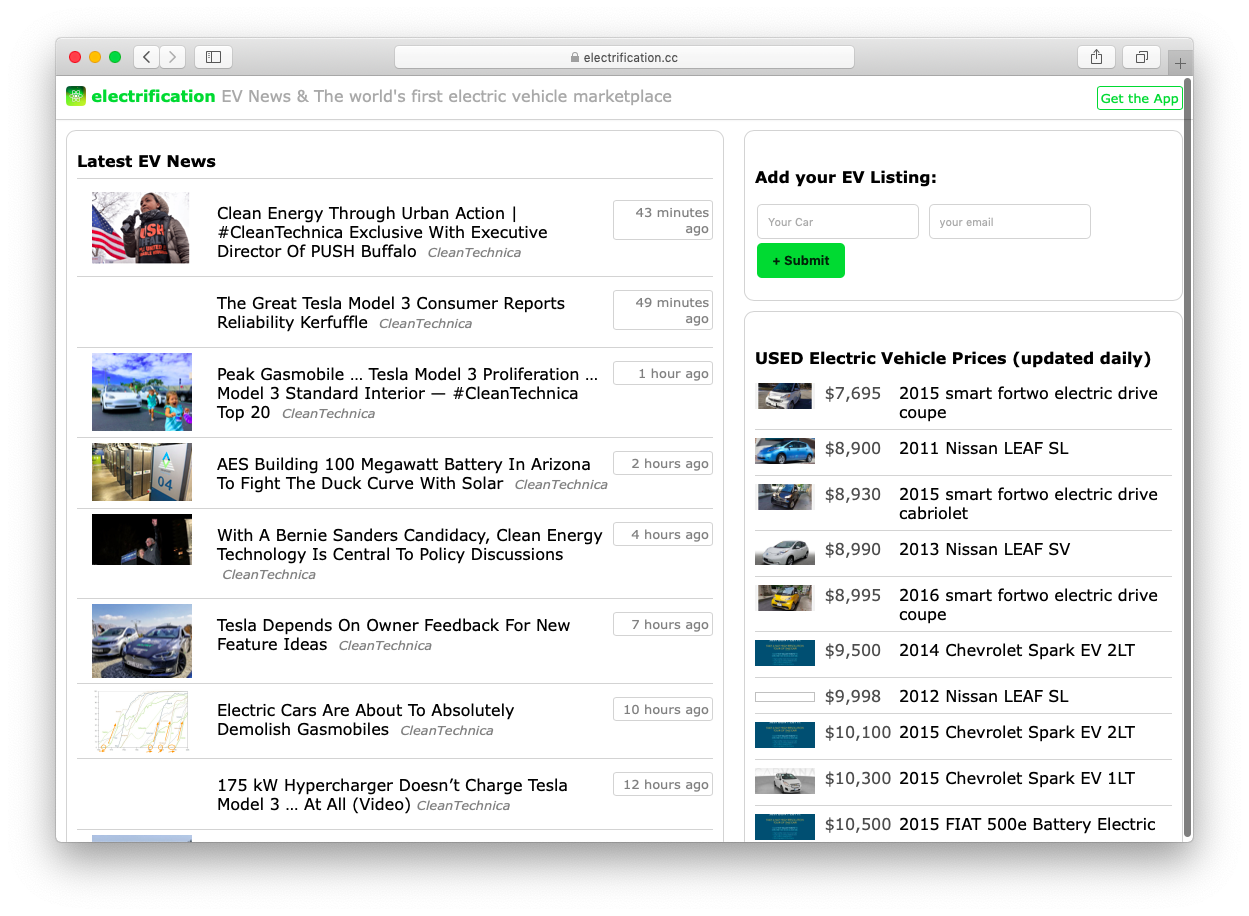
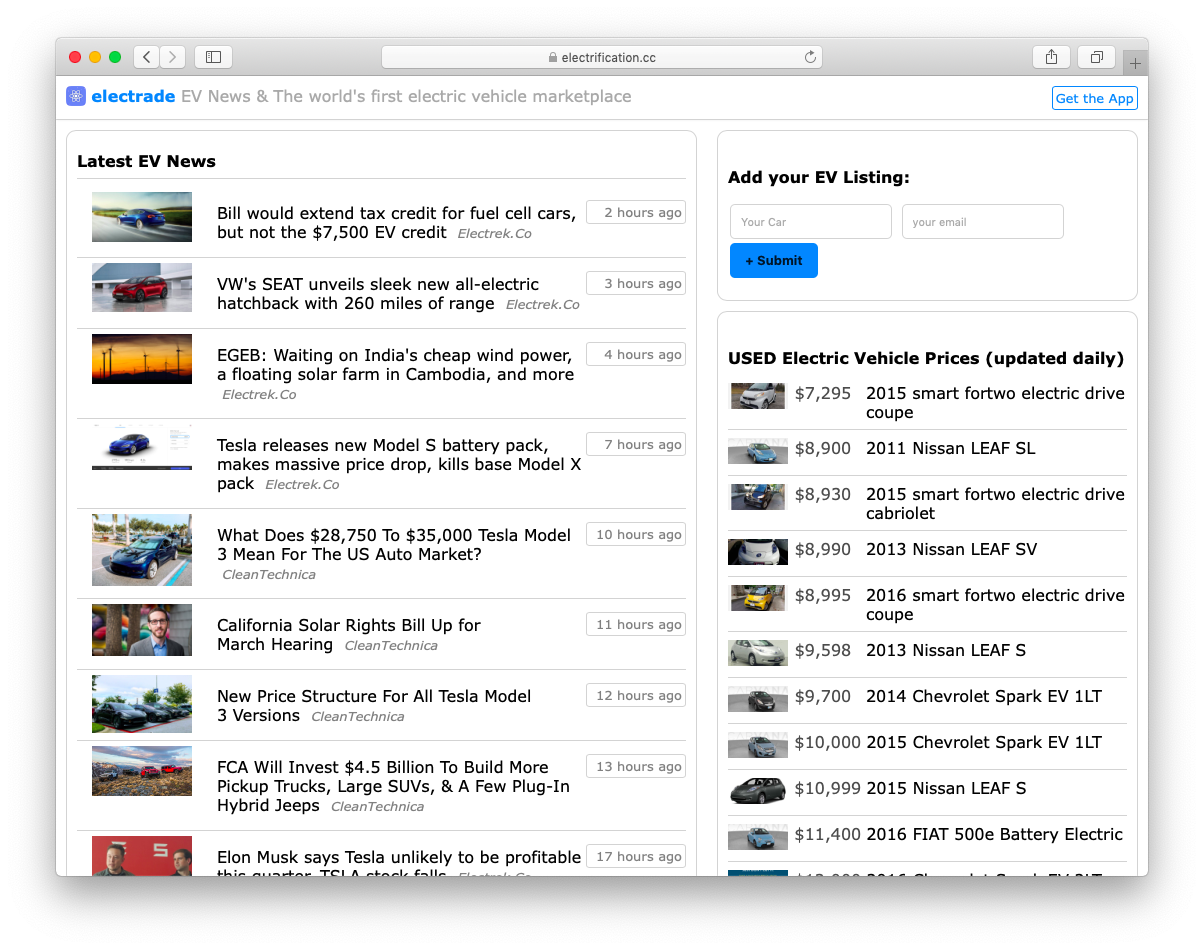
rebuilding site Wed Mar  6 14:32:53 PST 2019

Changed region(s): [[0.0307, 0.0306, 0.9834, 0.9476]]

diff --git a/src/Crumbs/PriceTrackerUsed.js b/src/Crumbs/PriceTrackerUsed.js
@@ -4,45 +4,14 @@ import React from 'react';
 export default class PriceTrackerUsed extends React.Component {
   constructor(props) {
     super(props);
-    this._getRandomColor = this._getRandomColor.bind(this);
     this.state = {
-      data: []
+      data: [],
+      loading: false
     };
   }
 
   componentWillMount() {
-      fetch('https://api.apify.com/v1/rG44NsjnfukCkKecE/crawlers/ssxDRduoSE3XdkzLv/lastExec/results?token=vDBYC8EeGdBZpYPrrrXLEjmwF')
-        .then((res) => { return res.json()})
-        
-        // merge arrays from different sites
-        .then(res =>  {   let finalArray = []
-                           for (var i = 0; i < res.length; i++){
-                                  if (i === 0) { finalArray = res[0].pageFunctionResult; }
-                                  else { finalArray = finalArray.concat( res[i].pageFunctionResult ); }
-                                } 
-                           return finalArray
-                        })
-
-        // deduplicate
-        .then((res) => {
-                    res = res.filter((thing, index, self) =>
-                      index === self.findIndex((t) => (
-                         t.name === thing.name
-                      ))
-                    )
-                    return res
-        })
-
-        // sort
-        .then(res => {  
-                  let newArray = res; for (var i = 0; i < res.length; i++){ newArray[i].price = parseInt(newArray[i].price.replace(',', '').replace('$', '')) }; 
-                  return newArray.sort((a, b) => a.price - b.price)  })
-
-        // set results as state
-        .then((res) => {
-                    this.setState({data: res}); 
-                    // console.log(res)
-        })
+      this._getUsedTeslaData()
      
   }
 
@@ -52,18 +21,80 @@ export default class PriceTrackerUsed extends React.Component {
 
   };
 
-  _getRandomColor () {
-    var hex = Math.floor(Math.random() * 0xFFFFFF);
-    return "#" + ("000000" + hex.toString(16)).substr(-6);
+
+  _getUsedTeslaData(){
+
+    this.setState({loading: true})
+
+    // GET SCRAPED TESLA RESULTS
+    fetch('https://api.apify.com/v1/rG44NsjnfukCkKecE/crawlers/oZsdPYyHQ97zcaJvB/lastExec/results?token=PCARqhzaNZDF5oB9wxHux344H')
+      .then((res) => { return res.json()})
+      
+      // merge arrays from different pages
+      .then(res =>  {   
+                        let finalArray = []
+                        for (var i = 0; i < res.length; i++){
+                                if (i === 0) { finalArray = res[0].pageFunctionResult; }
+                                else { finalArray = finalArray.concat( res[i].pageFunctionResult ); }
+                              } 
+                        return finalArray
+                      })
+
+      // filter by Tesla
+      // .then((res) => {
+      //             console.log(res)
+      //             var filtered = res.filter(car =>  {return car.name.indexOf('Tesla') !== -1} )
+      //             return filtered
+      // })
+
+      // edit properties of car object
+      .then(res => {
+                // console.log(res)
+                let newArray = res; 
+                for (var i = 0; i < res.length; i++){ 
+                        newArray[i].price = newArray[i].price.substring(0, 7);
+                }; 
+                return newArray
+              }
+      )
+
+      // sort
+      .then(res => {  
+                let newArray = res; for (var i = 0; i < res.length; i++){ newArray[i].price = parseInt(newArray[i].price.replace(',', '').replace('$', '')) }; 
+                return newArray.sort((a, b) => a.price - b.price)  })
+
+      // set results as state
+      .then((res) => {
+            // console.log('USED TESLAS: ', res)
+            this.setState({data: res, loading: false});
+      })
+
+      // .then(() => {
+      //     // GET OWN LISTINGS
+      //     fetch('https://electrade-server.herokuapp.com/api/listings/get/'+'0')
+      //       .then((res) => res.json())
+      //       .then((json) => { this.setState({data: json.concat(this.state.data), loading: false}); console.log('USED CAR DATA:',this.state.data) })
+      // })   
+
   }
 
 
   render() {
     return (
       <div class="box">
-        <p class=""><b>USED Electric Vehicle Prices (updated daily)</b></p>
+        <p>
+          <span class="">
+            <b>Used Tesla Deals Near </b>
+            <select>
+              <option value="San Francisco, CA">San Francisco, CA</option>
+            </select> 
+          </span>
+          <br />
+        </p>
+
+
         {this.state.data.map(item => (
-                  <a href={"https://www.edmunds.com"+item.link} target="_blank" rel="noopener noreferrer">
+                  <a href={item.url} target="_blank" rel="noopener noreferrer">
                     <div style={{display: 'flex', flexDirection: 'row'}}>
                       
                       <div key={item.name} style={{flex: 1}}>
@@ -71,14 +102,14 @@ export default class PriceTrackerUsed extends React.Component {
                       </div>
 
 
-                      <div style={{flex: 1}}>
+                      <div style={{flex: 3}}>
                         <span class="carPrice" >${item.price.toString().replace(/\B(?=(\d{3})+(?!\d))/g, ",")}</span>
-                      </div>
-
-                      <div key={item.name} style={{flex: 4}}>
-                          <div class="carName">
-                            {item.name.replace('USED', '')}
-                          </div>
+                        <div class="carName">
+                          {item.name.replace('USED', '')}
+                        </div>
+                        <div class="source">
+                          {item.location} | {item.miles}
+                        </div>
                       </div>
 
                     </div>

diff --git a/src/Crumbs/AddListingCrumb.js b/src/Crumbs/AddListingCrumb.js
@@ -8,13 +8,12 @@ export default class ListingCrumb extends React.Component {
     return (
       <div class="box" id="theForm">
         
-        <p class=""><b>Add your EV Listing:</b></p>
+        <p class=""><b>Email me price drops and new listings for these results:</b></p>
         <form action="https://formspree.io/hello@sunboxlabs.com"
               method="POST"
               id="formspree">
-            <input type="text" placeholder="Your Car" name="name" />&nbsp;
             <input type="email" placeholder="your email" name="_replyto" />&nbsp;
-            <button type="submit" value="Submit"><b>+ Submit</b></button>
+            <button type="submit" value="Submit"><b>Submit</b></button>
         </form>
 
       </div>

diff --git a/src/App.js b/src/App.js
@@ -32,7 +32,7 @@ export default class App extends React.Component{
             <div class="navbar">
               <span>
                 <img src="/electron.png" alt="" />&nbsp;
-                <span class="title"><b>electrade</b></span> <span class="subtitle">EV News & The world's first electric vehicle marketplace</span>
+                <span class="title"><b>electrade</b> | Find a used Tesla near you</span>
                 <a class="AppButton title time" href="https://itunes.apple.com/us/app/id1445602414" target="blank">Get the App</a>
               </span>
             </div>

diff --git a/src/Listings.js b/src/Listings.js
@@ -1,7 +1,5 @@
 import React from 'react';
-import Guides from './Crumbs/Guides'
 import AddListingCrumb from './Crumbs/AddListingCrumb'
-import PriceTrackerNew from './Crumbs/PriceTrackerNew'
 import PriceTrackerUsed from './Crumbs/PriceTrackerUsed'
 
 
@@ -42,18 +40,8 @@ export default class Crumbs extends React.Component {
     return (
       <div>
           <AddListingCrumb />
-          
-
 
           <PriceTrackerUsed />
-
-
-
-          <PriceTrackerNew />
-
-
-        
-          <Guides />
 
     </div>
     )

diff --git a/src/styles.css b/src/styles.css
@@ -46,7 +46,7 @@ li a {
 .news{
 	
 	padding: 10px;
-	flex: 3;
+	flex: 1;
 	overflow-y: scroll;
 	min-width: 400px;
 	height: 92vh;
@@ -55,7 +55,7 @@ li a {
 
 .listings{
 	padding: 10px;
-	flex: 2;
+	flex: 1;
 	overflow-y: scroll;
 	/*border-left: solid 1px lightgrey;	*/
 	height: 92vh;
@@ -97,8 +97,7 @@ li a {
 }
 
 .carImage{
-	max-height: 30px;
-	max-width: 60px;
+	
 }
 
 hr {

diff --git a/src/news.js b/src/news.js
@@ -43,7 +43,7 @@ export default class News extends React.Component {
           // set results as state
           .then((sorted) => { 
                           this.setState({data: sorted}); 
-                          console.log(sorted)
+                          // console.log(sorted)
 
                           })
     
